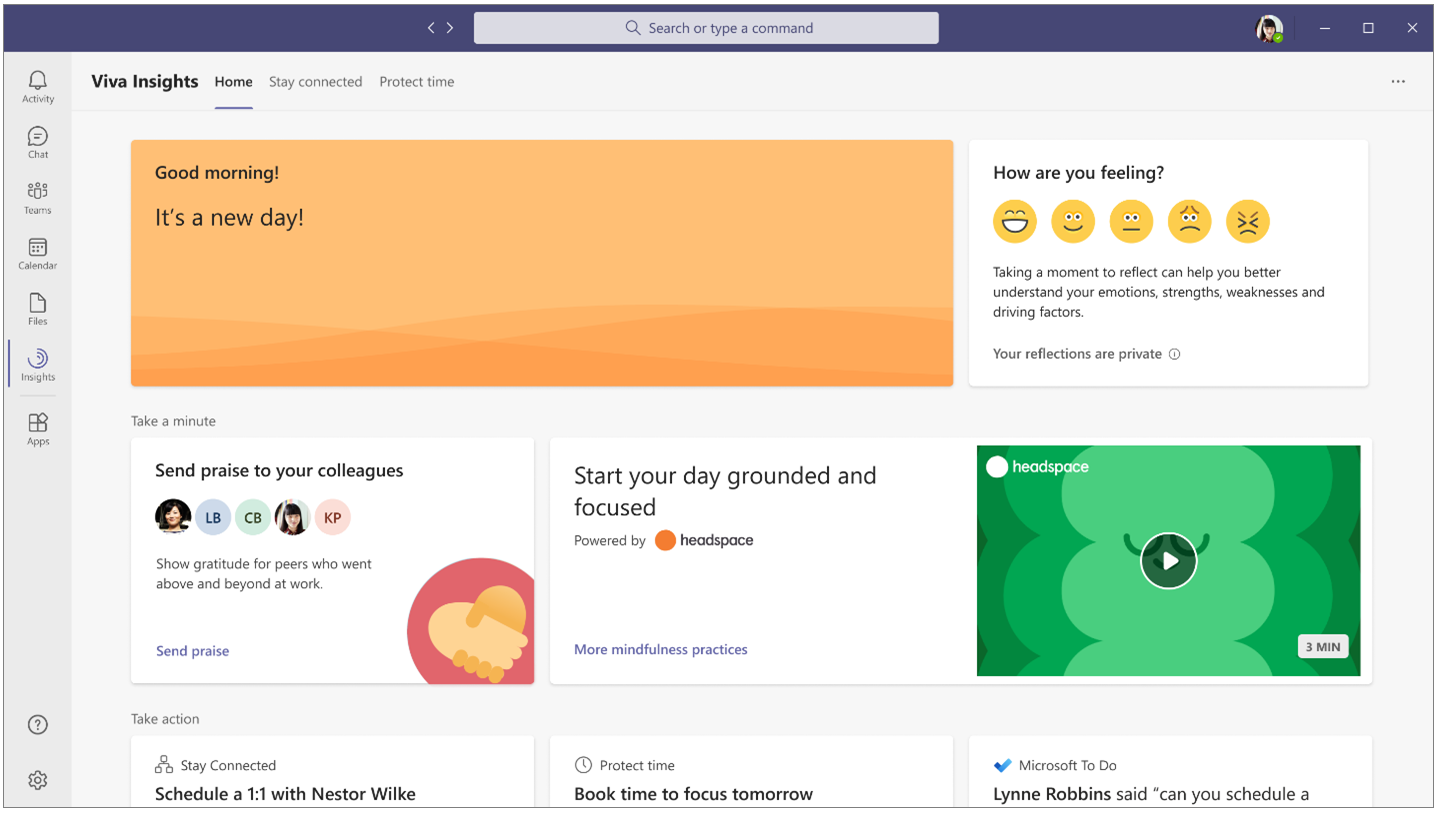
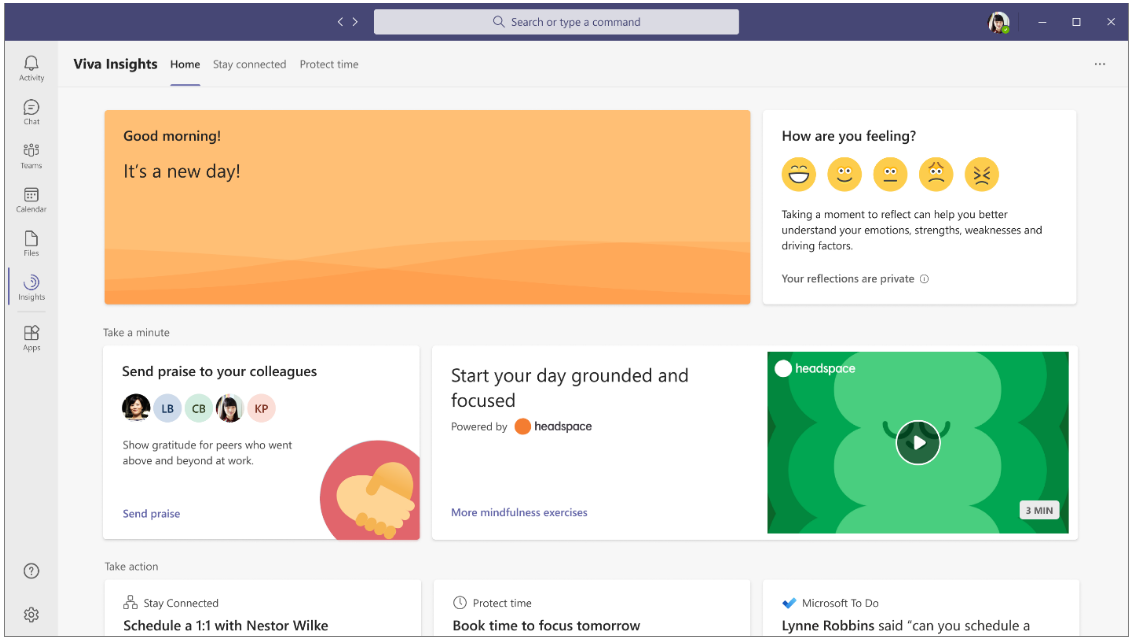
edits and images

diff --git a/Teams-insights/viva-insights-headspace.md b/Teams-insights/viva-insights-headspace.md
@@ -16,6 +16,9 @@ audience: Admin
 
 Viva Insights has introduced a curated set of guided meditations and focus music from Headspace. Reach these resources on the [Home](viva-insights-home.md) page to help you start your day grounded, relax your mind before a big meeting, or find focus before starting an important project. <!-- VERIFY WITH ANJI BUT KEEPING THIS OUT FOR NOW: A Headspace meditation to mindfully wrap up the day will also be integrated into the virtual commute. --> In just a few minutes a day, meditation and mindfulness with Headspace can help you lower stress, increase focus and ease teamwork.
 
+> [!NOTE]
+> As of June 2021, Headspace is only available to users who have their language in Teams set to English. Additional languages will be supported in the future.  
+
 ## Start a guided meditation
 
 Any time you want, you can start a guided meditation that's been designed for the current time of day:

diff --git a/Teams-insights/viva-insights-virtual-commute.md b/Teams-insights/viva-insights-virtual-commute.md
@@ -102,7 +102,7 @@ After you begin your virtual commute by selecting **Start** on the **Protect tim
 
    Select the emoji that best represents how you're currently feeling. The card gives you feedback to acknowledge your choice, which you can view before you select **Next**. This optional step helps you build the healthy habit of checking in with yourself.
 
-6. **Mindfully disconnect by using Headspace** &ndash; Select the 'Play' button on the Headspace card to begin a guided meditation:
+6. **Mindfully disconnect with a Headspace meditation** &ndash; Select the 'Play' button on the Headspace card to begin a guided meditation:
 
    ![Headspace Play button](Images/headspace-in-vc.png)
 

diff --git a/Teams-insights/viva-insights-home.md b/Teams-insights/viva-insights-home.md
@@ -57,8 +57,7 @@ The card's color changes to alert you of other events, such as scheduled focus t
 
 ## Mindfulness content from Headspace
 
-See [Headspace](viva-insights-headspace.md)
-
+This feature offers a curated set of guided meditations and focus music from Headspace. For more information, see [Headspace](viva-insights-headspace.md).
 
 ## Take a break
 
